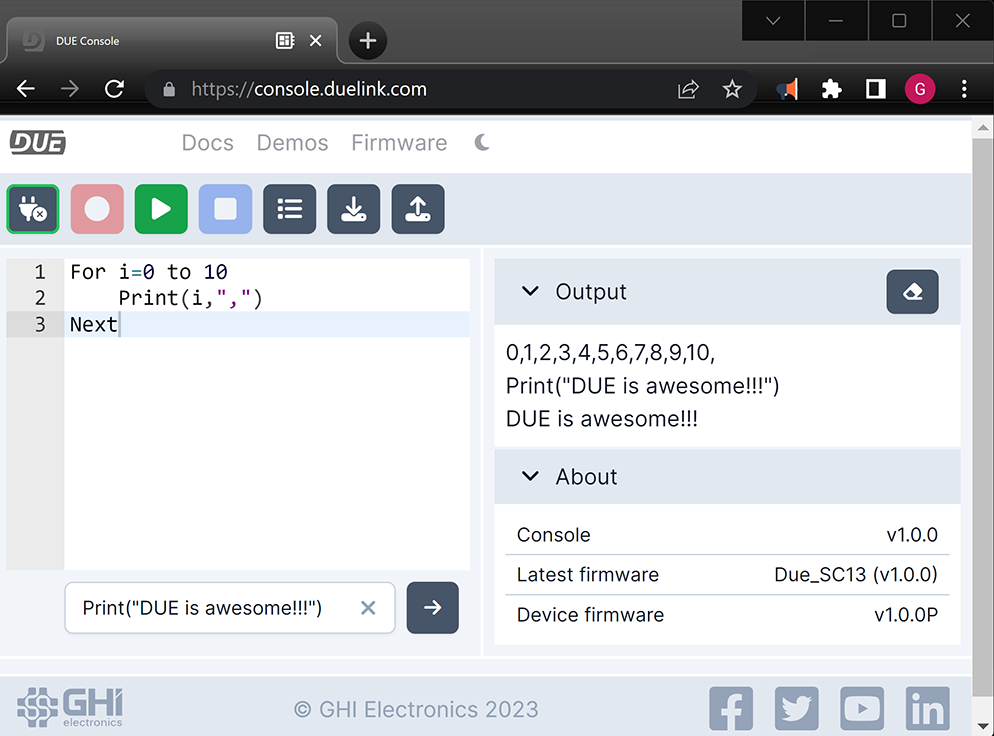
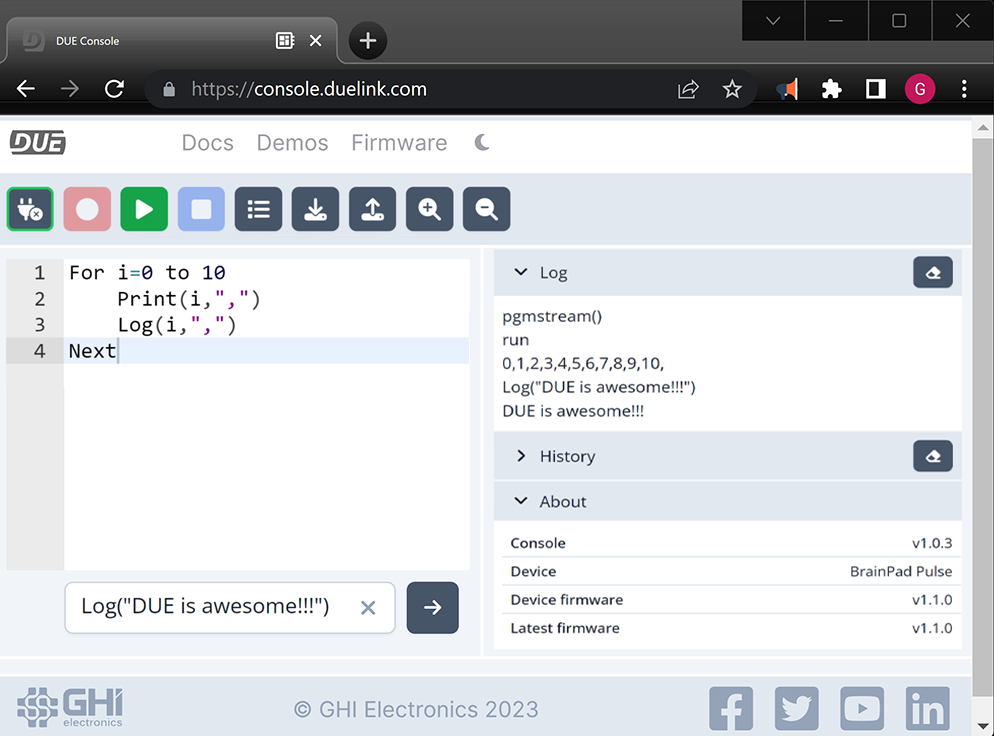
Build

Changed region(s): [[0.499, 0.3438, 0.9668, 0.875], [0.0, 0.25, 0.5302, 0.5], [0.0624, 0.8125, 0.3431, 0.8438]]

diff --git a/docs/software/console.html b/docs/software/console.html
@@ -89,8 +89,10 @@
 <p>Try <code>DWrite('L',1)</code> to run the LED on and then <code>DWrite('L',0)</code> to turn it off.</p>
 <hr>
 <hr>
-<h2 id="output-window">Output Window</h2>
-<p>The DUE Output window is where DUE hardware will talk back to the console. The <code>eraser</code> button clears the Output window.</p>
+<h2 id="log--history-windows">Log &amp; History Windows</h2>
+<p>The DUE Log window is where DUE hardware will talk back to the console. <code>Log()</code> functions appear directly in this window.  The History windows provides a history of your DUE session. The <code>eraser</code> button clears the windows.</p>
+<pre><code class="lang-basic">Log(&quot;This is where log outputs appear&quot;)
+</code></pre>
 <p><img src="images/console-output.png" alt="DUE console output"></p>
 <hr>
 <h2 id="connect">Connect</h2>
@@ -120,6 +122,10 @@
 <h2 id="load">Load</h2>
 <p>Loads a saved program into the editor.</p>
 <p><img src="images/due-load.png" alt="Download Button"></p>
+<hr>
+<h2 id="zoom">Zoom</h2>
+<p>Zooms the edit window in and out.</p>
+<p><img src="images/due-zoom.png" alt="Download Button"></p>
 <hr>
 <h2 id="docs">Docs</h2>
 <p>Links to the DUE Script Documentation.</p>
